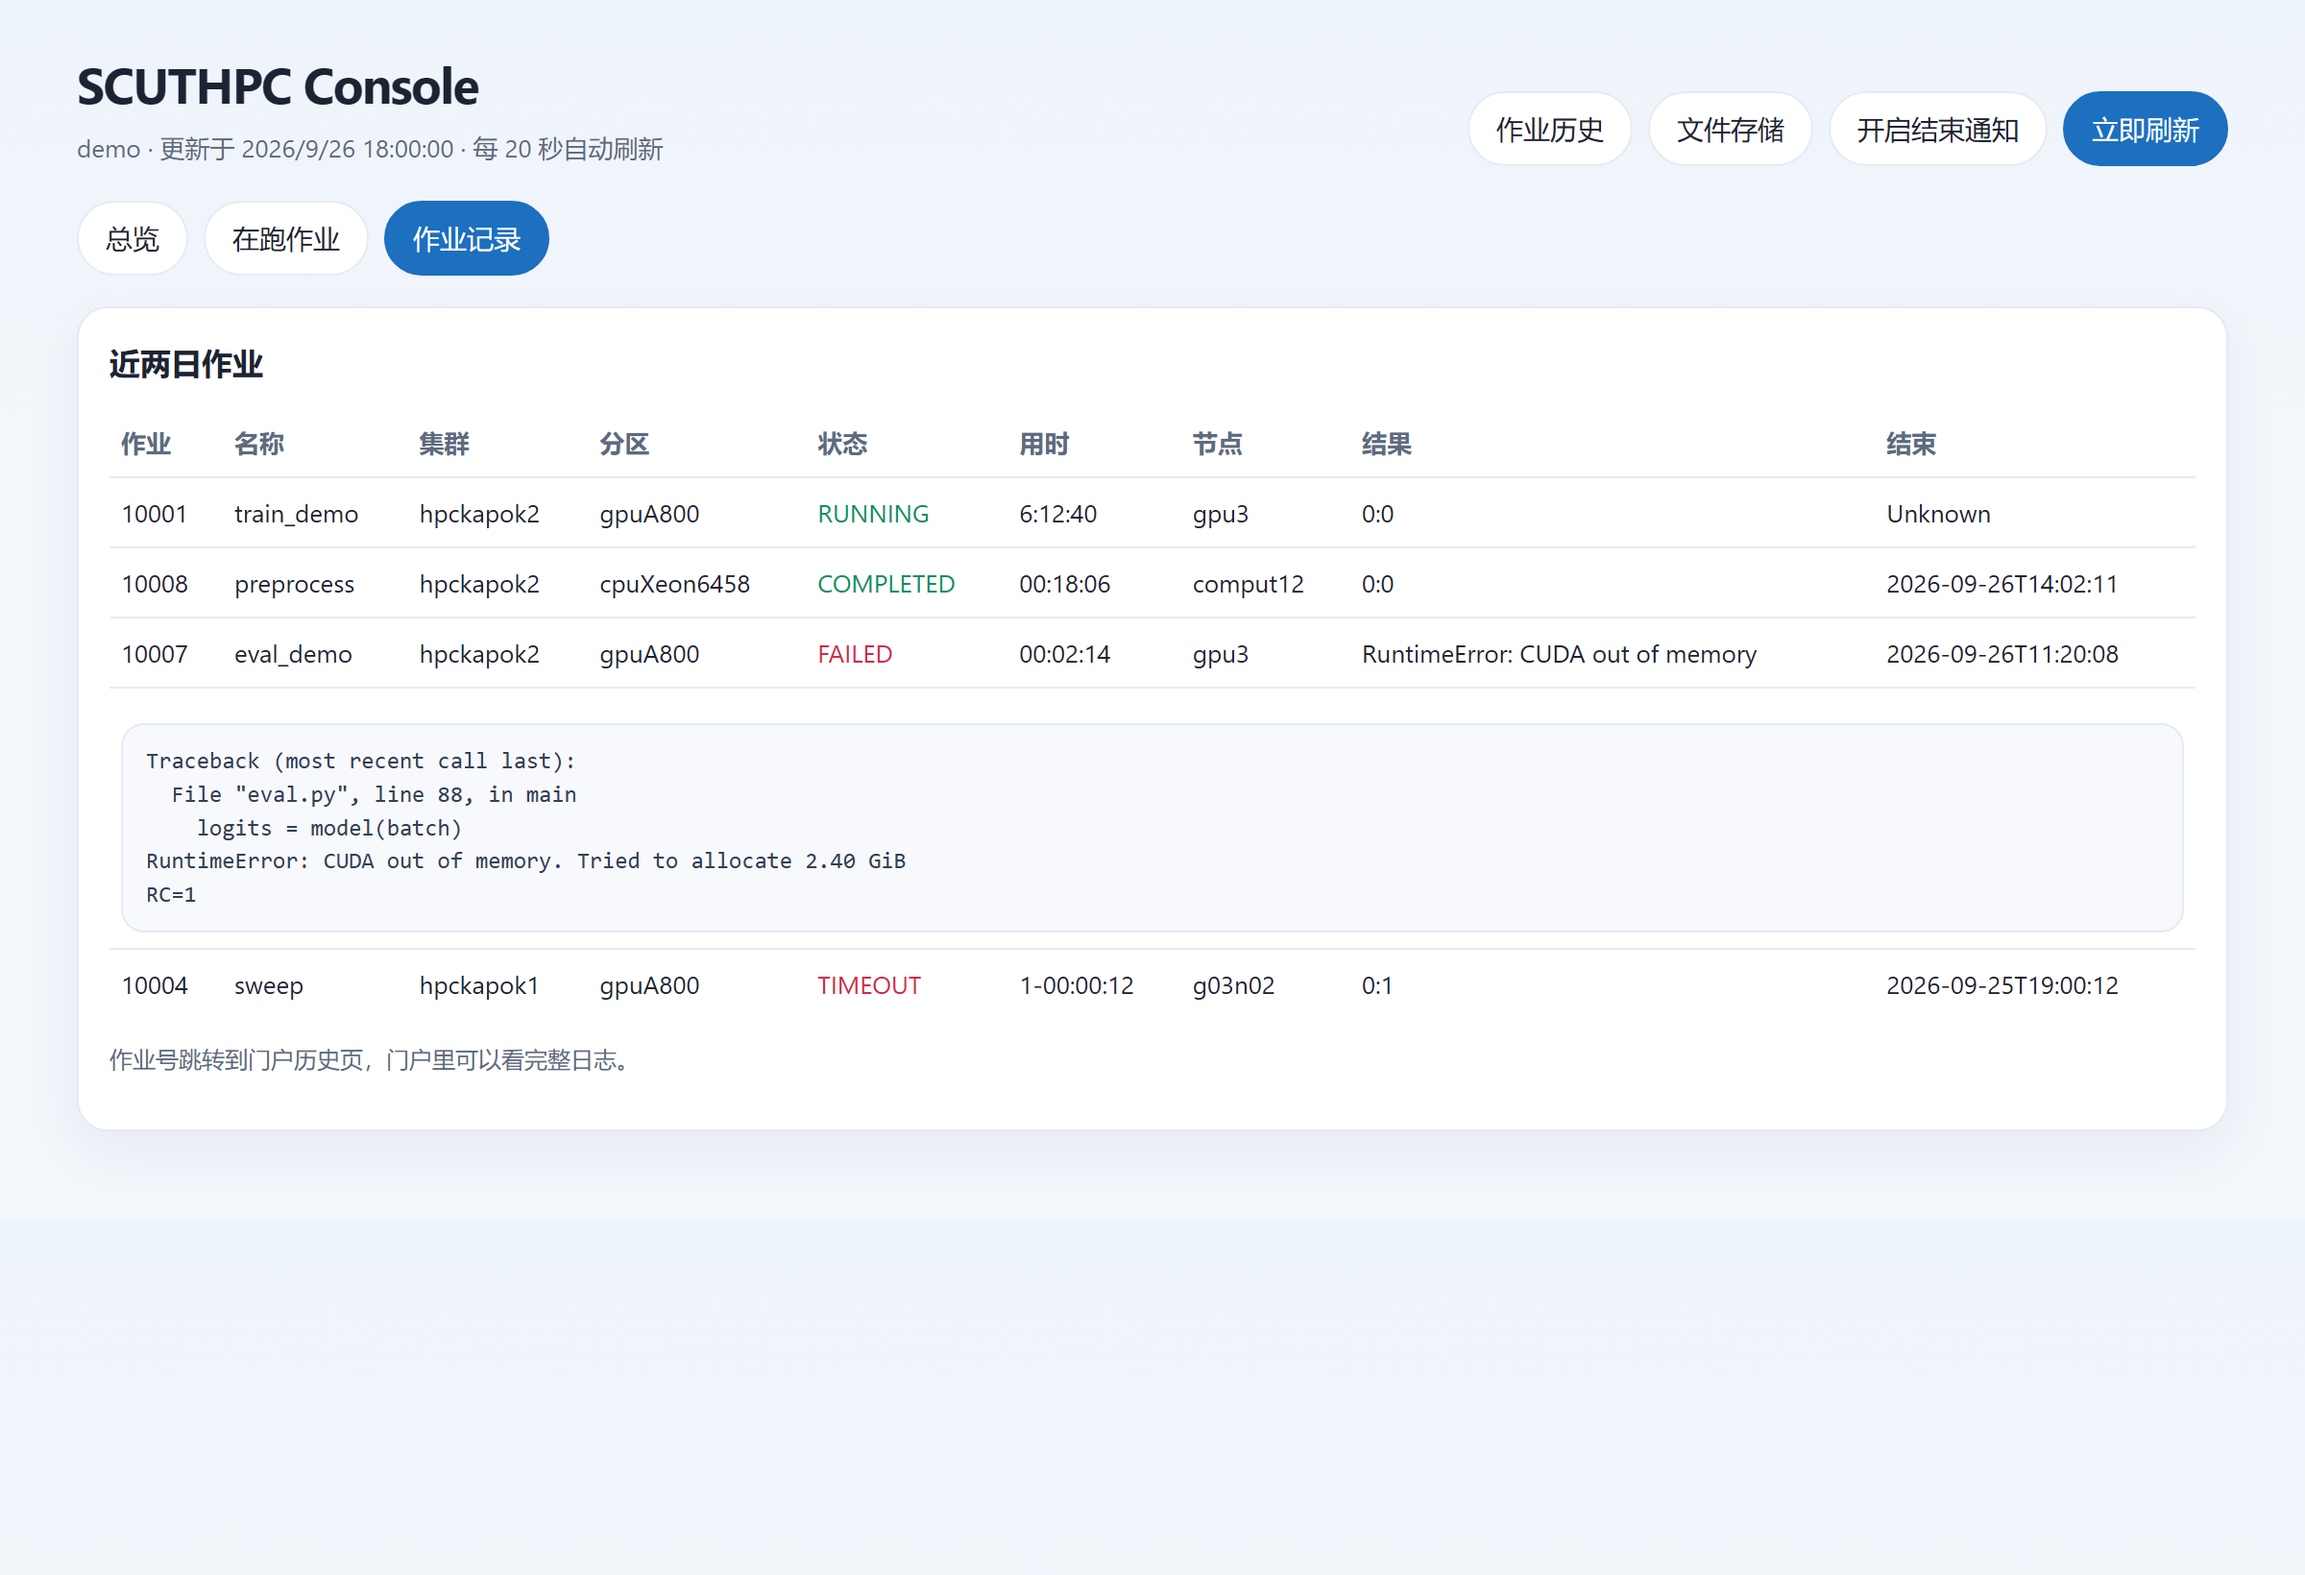
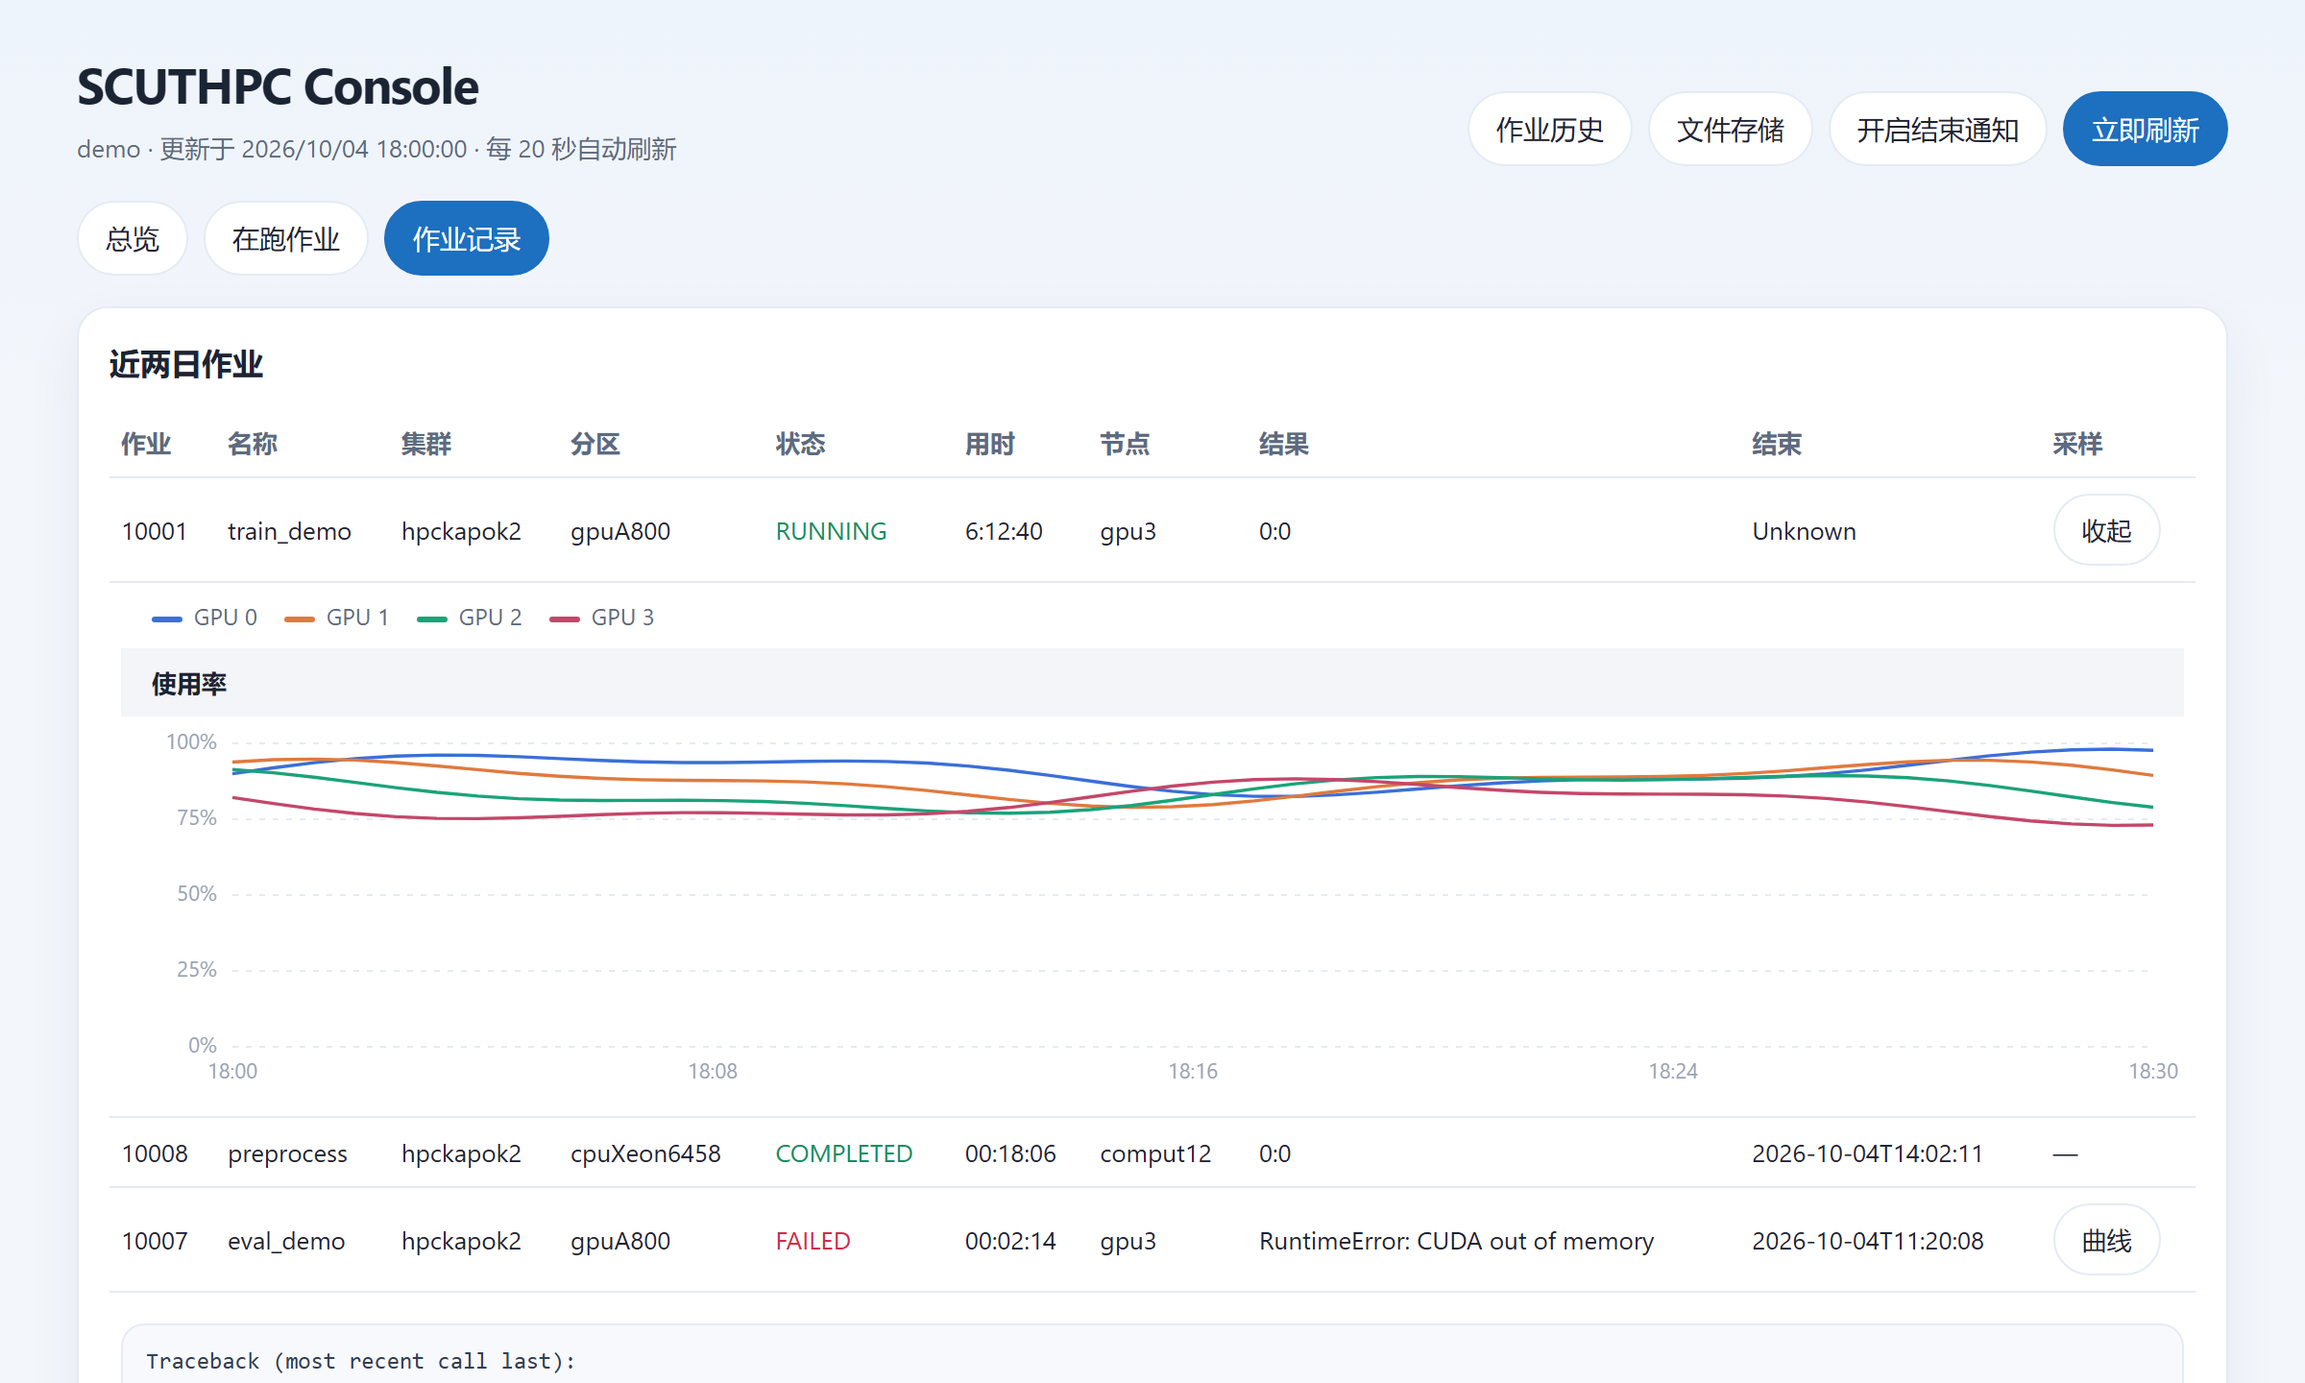
Refresh the README with sample screenshots of the current console.
Show single-node GPU offers, rolling charts, and history curves using fictional data.

diff --git a/README.md b/README.md
@@ -6,18 +6,20 @@
 
 ## 界面
 
-![总览样例：两个集群的可申请资源与空闲 GPU 节点](docs/screenshots/overview.png)
+以下为样例数据。
 
-![在跑作业样例：卡住提示、显卡利用率与日志进度](docs/screenshots/jobs.png)
+<img src="docs/screenshots/overview.png" alt="总览样例：单机可交的卡数组合" width="1100">
 
-![作业记录样例：近两日作业及失败日志](docs/screenshots/history.png)
+<img src="docs/screenshots/jobs.png" alt="在跑作业曲线样例：多卡利用率、显存和悬停读数" width="1100">
+
+<img src="docs/screenshots/history.png" alt="作业记录样例：展开仍在缓存内的曲线" width="1100">
 
 四个分页约每 20 秒刷新一次。
 
-- **总览**给出公共分区可申请的 GPU、空闲 CPU 和在线节点，并列出当前仍有空闲 GPU 的公共节点。名称以 `emic`、`gznet`、`ex`、`telecom` 开头的分区视为专属资源，不计入可申请数量。
-- **集群资源**按分区给出在线节点、GPU 与 CPU 的空闲情况。
-- **在跑作业**按卡显示利用率、显存、温度和功耗。日志末尾若有步数与 `it/s` 或 `s/it`，会给出实验进度和剩余时间。连续三次采样（约一分钟）所有卡的利用率都低于 5% 时，标为可能卡住。
-- **作业记录**列出近两日作业。失败、超时或内存不足时，附上该作业日志的末尾。
+- **总览**按单机作业显示最多能交的卡数，并按「N 卡 × 几台」列出。集群 1 的 A800 按 1 卡 9 核，集群 2 按 1 卡 8 核；空卡还在但核不够的节点单独标出。名称以 `emic`、`gznet`、`ex`、`telecom` 开头的分区不计入。
+- **集群资源**按分区给出在线节点、GPU 与 CPU 的空闲情况，并显示家目录相对 1 TB 免费配额的用量。
+- **在跑作业**可以在卡片和曲线之间切换。曲线每 5 秒采样利用率与显存，多卡各一条线，鼠标悬停显示该时刻的数值。
+- **作业记录**列出近两日作业。失败时附上日志末尾；6 小时内采过样的作业可以展开曲线。
 
 右上角的作业历史和文件存储指向 [SCUT HPC 门户](https://hpckapok.scut.edu.cn)。文件链接中的用户名取自集群登录身份。允许浏览器通知后，页面保持打开时，作业完成或失败会收到一条系统通知。
 
